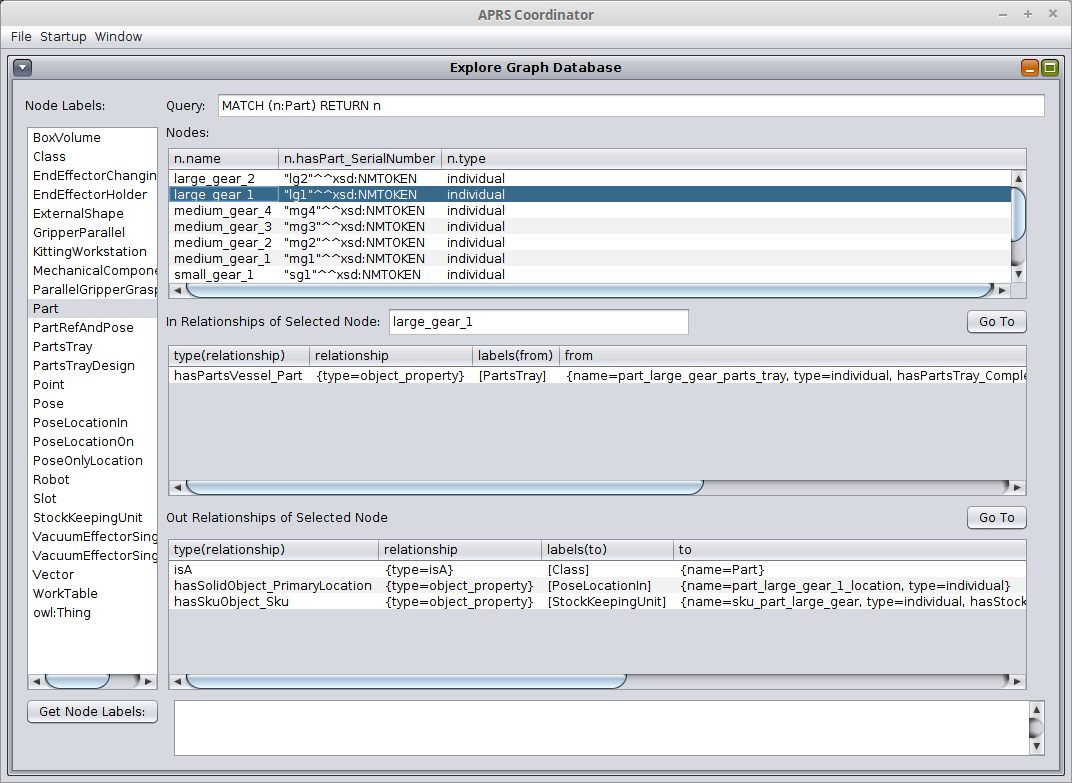
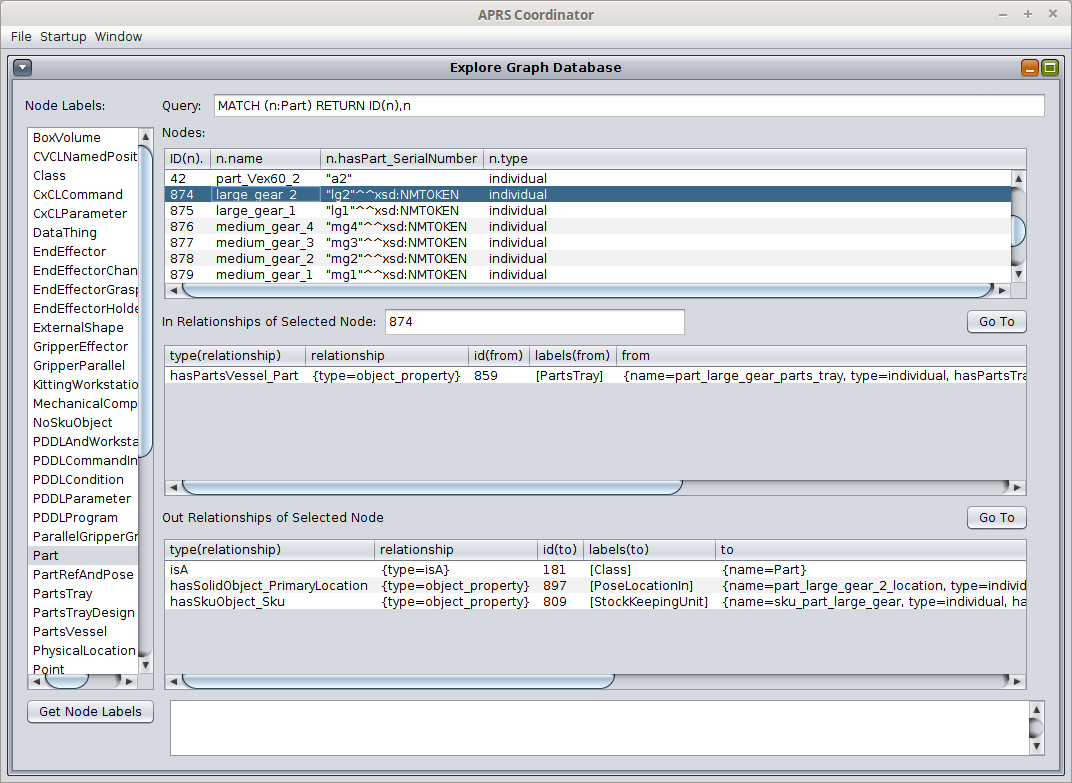
update README use set to get all node labels sorted and more distinct

diff --git a/src/main/java/aprs/framework/database/explore/ExploreGraphDbJPanel.java b/src/main/java/aprs/framework/database/explore/ExploreGraphDbJPanel.java
@@ -41,6 +41,7 @@ import java.util.HashSet;
 import java.util.List;
 import java.util.Map;
 import java.util.Set;
+import java.util.TreeSet;
 import java.util.logging.Level;
 import java.util.logging.Logger;
 import javax.swing.DefaultListModel;
@@ -493,23 +494,23 @@ public class ExploreGraphDbJPanel extends javax.swing.JPanel implements DbSetupL
                 throw new IllegalStateException("connection is null");
             }
             PreparedStatement stmtn
-                    = connection.prepareStatement("START n=node(*) RETURN distinct labels(n)");
+                    = connection.prepareStatement("MATCH (n) RETURN distinct labels(n)");
             DefaultListModel model = new DefaultListModel();
 
             model.removeAllElements();
-            List<String> l = new ArrayList<>();
+            Set<String> set = new TreeSet<>();
             try (ResultSet rs = stmtn.executeQuery()) {
                 while (rs.next()) {
                     Object o = rs.getObject(1);
                     if (o instanceof List) {
-                        o = ((List) o).get(0);
-                    }
+                        set.addAll((List)o);
+                    } else {
 //                    model.addElement(o);
-                    l.add(o.toString());
+                        set.add(o.toString());
+                    }
                 }
             }
-            Collections.sort(l);
-            for (String s : l) {
+            for (String s : set) {
                 model.addElement(s);
             }
             jListNodeLabels.setModel(model);
